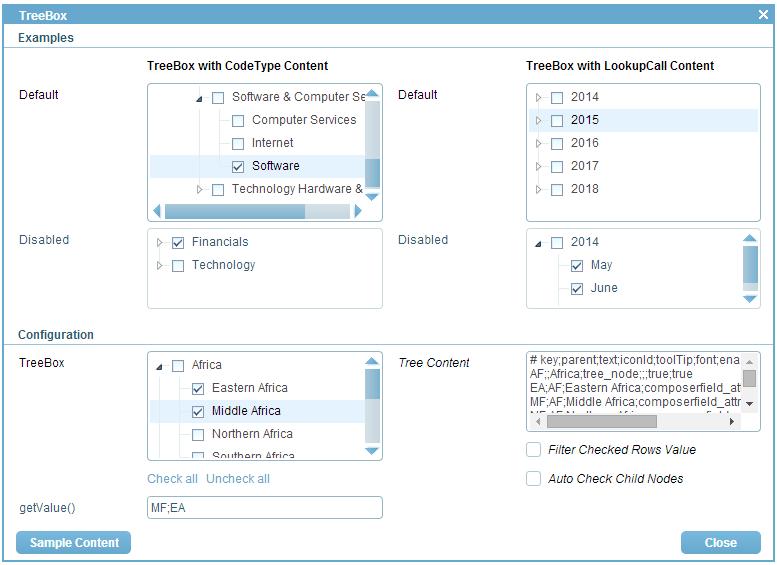
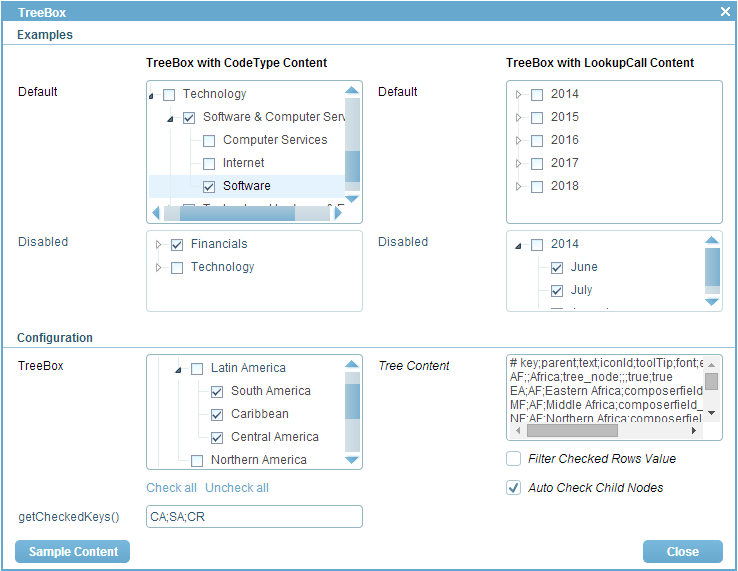
description for tree box field

diff --git a/code/widgets/org.eclipse.scout.widget.client/src/org/eclipse/scout/widget/client/ui/forms/TreeBoxForm.java b/code/widgets/org.eclipse.scout.widget.client/src/org/eclipse/scout/widget/client/ui/forms/TreeBoxForm.java
@@ -371,7 +371,7 @@ public class TreeBoxForm extends AbstractForm implements IPageForm {
       }
 
       @Order(30.0)
-      public class GetValueField extends AbstractStringField {
+      public class GetCheckedKeysField extends AbstractStringField {
 
         @Override
         protected boolean getConfiguredEnabled() {
@@ -380,7 +380,7 @@ public class TreeBoxForm extends AbstractForm implements IPageForm {
 
         @Override
         protected String getConfiguredLabel() {
-          return TEXTS.get("GetValue");
+          return TEXTS.get("getCheckedKeys");
         }
 
         @Override
@@ -390,9 +390,8 @@ public class TreeBoxForm extends AbstractForm implements IPageForm {
 
         @Override
         protected void execChangedMasterValue(Object newMasterValue) throws ProcessingException {
-          if (newMasterValue instanceof Set<?>) {
-            setValue(StringUtility.join(";", ((Set<?>) newMasterValue).toArray(new String[0])));
-          }
+          Set<String> keys = getTreeBoxField().getCheckedKeys();
+          setValue(StringUtility.join(";", keys.toArray(new String[0])));
         }
       }
 
